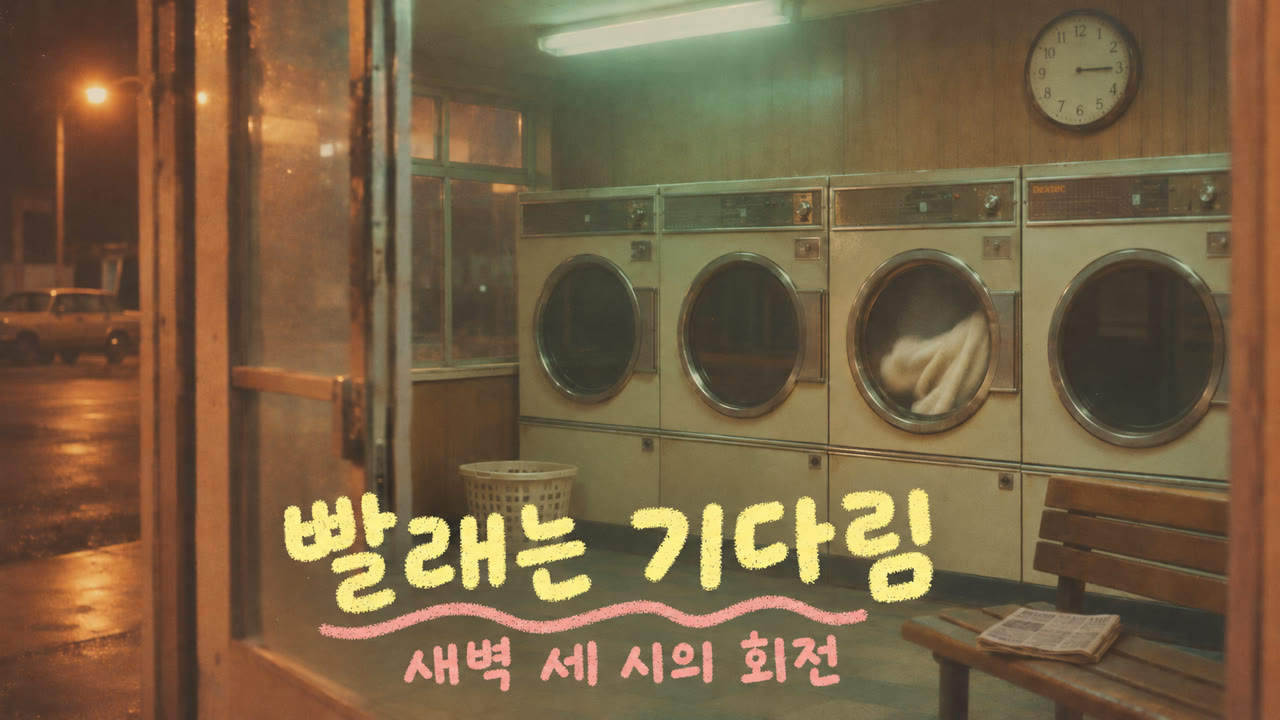
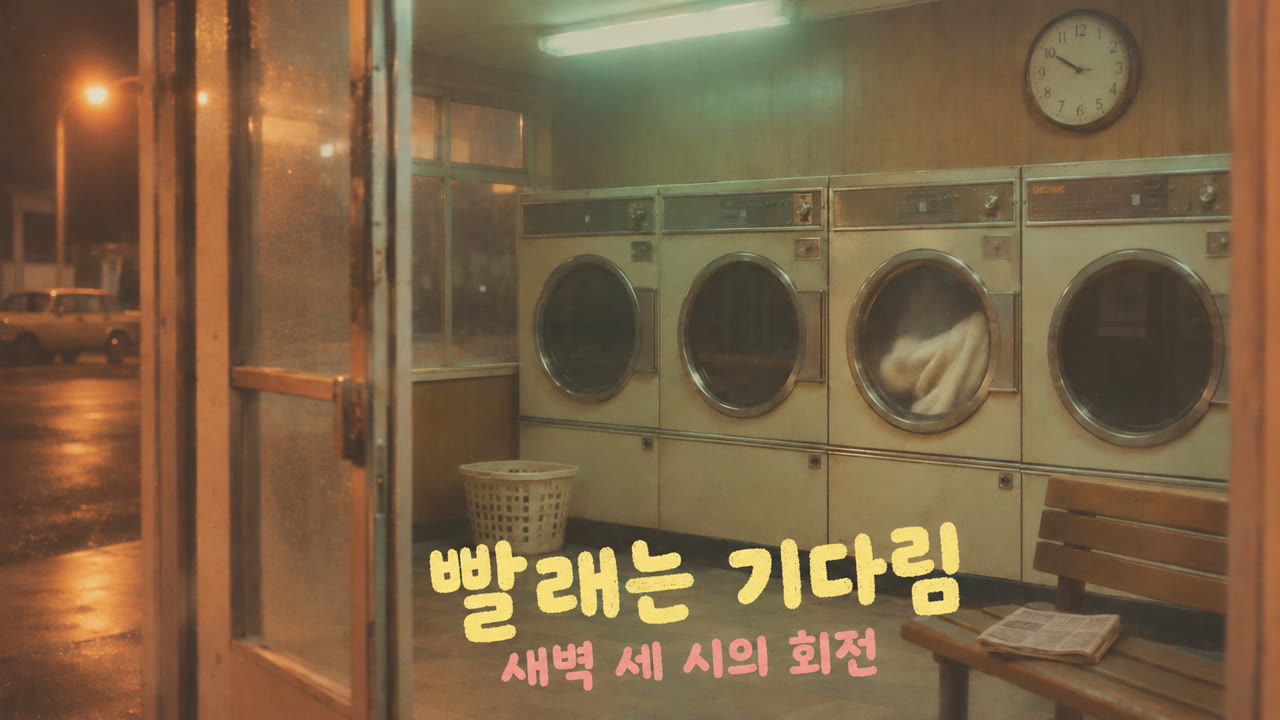
feat(akbun-draw): title-pastel 영문 제목 대문자, 밑줄은 underline 옵션으로

diff --git a/plugins/akbun-draw/skills/akbun-draw-title-pastel/scripts/title_prompt.py b/plugins/akbun-draw/skills/akbun-draw-title-pastel/scripts/title_prompt.py
@@ -18,7 +18,7 @@ REF = Path(__file__).resolve().parent.parent / "references"
 # 폰트·브랜드를 가리키는 말. 글씨체는 획 모양으로만 묘사한다.
 BANNED = (r"\b(fonts?|typefaces?|garamond|helvetica|arial|times new roman|baskerville|bodoni|futura|didot|comic sans|"
           r"nanum|pretendard|gaegu|logos?|trademarks?)\b|폰트|글꼴|서체|로고|™|®|©")
-ORDER = ("title", "texture", "subtitle", "accent", "finish", "placement", "keep")
+ORDER = ("title", "texture", "subtitle", "underline", "finish", "placement", "keep")
 
 
 def load(name):
@@ -61,6 +61,7 @@ def check(spec, base=Path(".")):
         ("palette", isinstance(spec.get("palette"), str) and spec["palette"] in pals, f"palettes.jsonl id: {sorted(pals)}"),
         ("title length", 1 <= len(title.strip()) <= 20, f"제목 {len(title.strip())}자, 1~20자(공백 포함, 앞뒤 공백 제외, 경계 포함)"),
         ("subtitle length", len(sub.strip()) <= 40, f"부제 {len(sub.strip())}자, 0~40자(공백 포함, 앞뒤 공백 제외, 경계 포함)"),
+        ("underline flag", isinstance(spec.get("underline", False), bool), "underline은 true/false, 없으면 false"),
         ("one line each", "\n" not in title + sub, "제목·부제는 각각 한 줄"),
         ("no quotes", '"' not in title + sub, "큰따옴표 금지(프롬프트의 인용 표시와 겹침)"),
         ("no font or brand", not re.search(BANNED, title + " " + sub, re.I), "폰트·브랜드·로고를 가리키는 말 금지"),
@@ -81,11 +82,16 @@ def score(rows):
 
 def build(spec):
     style, pal = load("style.jsonl"), load("palettes.jsonl")[spec["palette"]]
-    sub = spec.get("subtitle", "").strip()
-    color = (f"Title color: {pal['title']} {pal['title_hex']}. "
-             f"Accent color for the {'subtitle and ' if sub else ''}underline: {pal['accent']} {pal['accent_hex']}.")
-    rules = " ".join(style[k]["prompt"] for k in ORDER if k != "subtitle" or sub)
-    text = f'TITLE: "{spec["title"].strip()}"\n' + (f'SUBTITLE: "{sub}"' if sub else "No subtitle.")
+    sub, line = spec.get("subtitle", "").strip(), spec.get("underline", False)
+    color = f"Title color: {pal['title']} {pal['title_hex']}."
+    uses = " and ".join(n for n, on in (("subtitle", sub), ("underline", line)) if on)
+    if uses:
+        color += f" Accent color for the {uses}: {pal['accent']} {pal['accent_hex']}."
+    keys = [k for k in ORDER if k != "subtitle" or sub]
+    rules = " ".join(style[k if k != "underline" or line else "no_underline"]["prompt"] for k in keys)
+    # 영문 제목은 대문자로 넘긴다. 한글은 upper()에 영향받지 않는다.
+    title = unicodedata.normalize("NFC", spec["title"].strip()).upper()
+    text = f'TITLE: "{title}"\n' + (f'SUBTITLE: "{sub}"' if sub else "No subtitle.")
     return "\n\n".join([style["medium"]["prompt"], f"LETTERING: {rules} {color}", text])
 
 
@@ -118,14 +124,22 @@ def selftest():
         t = Path(tmp)
         Image.new("RGB", (64, 36), (235, 235, 230)).save(t / "light.png")
         Image.new("RGB", (64, 36), (30, 30, 40)).save(t / "dark.png")
+        fails = lambda s: {n for n, ok, _ in check(s, t) if not ok}  # noqa: E731
         good = {"image": "dark.png", "palette": "butter", "title": "빨래는 기다림", "subtitle": "새벽 세 시의 회전"}
         assert score(check(good, t)) == 100, check(good, t)
         out = build(good)
         assert '"빨래는 기다림"' in out and '"새벽 세 시의 회전"' in out and "#F7EF9E" in out and "#F0A8A4" in out
-        assert "monoline" in out and "subtitle and underline" in out
+        assert "monoline" in out and "Accent color for the subtitle:" in out
+        assert "No underline" in out and "wavy underline" not in out
+        lined = build(dict(good, underline=True))
+        assert "wavy underline" in lined and "No underline" not in lined and "subtitle and underline" in lined
+        assert "Accent color for the underline:" in build(dict(good, subtitle="", underline=True))
+        assert "Accent color" not in build(dict(good, subtitle=""))
+        assert '"TINY WISHES"' in build(dict(good, title="Tiny Wishes", subtitle="slow days")) and '"slow days"' in build(dict(good, title="Tiny Wishes", subtitle="slow days"))
+        assert '"API 응답 지연"' in build(dict(good, title="api 응답 지연"))
+        assert "underline flag" in fails(dict(good, underline="yes"))
         bare = build(dict(good, subtitle=""))
         assert "No subtitle." in bare and "half of the title" not in bare and "subtitle and" not in bare
-        fails = lambda s: {n for n, ok, _ in check(s, t) if not ok}  # noqa: E731
         assert "title contrast" in fails(dict(good, image="light.png"))
         assert not fails(dict(good, image="light.png", palette="cocoa"))
         assert "palette" in fails(dict(good, palette="neon"))

diff --git a/plugins/akbun-draw/skills/akbun-draw-title-pastel/SKILL.md b/plugins/akbun-draw/skills/akbun-draw-title-pastel/SKILL.md
@@ -1,6 +1,6 @@
 ---
 name: akbun-draw-title-pastel
-description: 이미 있는 그림·사진 위에 태블릿 브러시로 즉석에서 덧그린 듯한 제목·부제를 넣는 이미지 편집 스타일 pastel. 굵고 둥근 모노라인 획, 출렁이는 기준선, 마른 크레용·오일파스텔 질감, 제목색과 강조색 두 가지, 물결 밑줄 하나, 테두리·그림자·박스 없음. 폰트를 쓰지 않고 이미지 생성 모델이 글자를 그린다. 모델은 spec(JSON)만 쓰고, 스크립트가 references 라이브러리로 영어 편집 프롬프트를 조립하고 채점한다. 사용자가 직접 호출할 때만 실행한다.
+description: 이미 있는 그림·사진 위에 태블릿 브러시로 즉석에서 덧그린 듯한 제목·부제를 넣는 이미지 편집 스타일 pastel. 굵고 둥근 모노라인 획, 출렁이는 기준선, 마른 크레용·오일파스텔 질감, 영문 제목은 대문자, 제목색과 강조색 두 가지, 강조가 필요할 때만 물결 밑줄, 테두리·그림자·박스 없음. 폰트를 쓰지 않고 이미지 생성 모델이 글자를 그린다. 모델은 spec(JSON)만 쓰고, 스크립트가 references 라이브러리로 영어 편집 프롬프트를 조립하고 채점한다. 사용자가 직접 호출할 때만 실행한다.
 disable-model-invocation: true
 ---
 
@@ -34,8 +34,9 @@ disable-model-invocation: true
 |---|---|
 | `image` | 원본 그림 경로, spec 파일이 있는 폴더 기준 |
 | `palette` | palettes.jsonl의 `id` |
-| `title` | 제목 한 줄, 1~20자(NFC 정규화한 유니코드 코드 포인트 수, 공백 포함, 앞뒤 공백 제외, 경계 포함) |
-| `subtitle` | 부제 한 줄, 0~40자(같은 방식), 없으면 `""` |
+| `title` | 제목 한 줄. 영문은 스크립트가 대문자로 바꿔 프롬프트에 넣는다(spec에는 입력 그대로). 1~20자(NFC 정규화한 유니코드 코드 포인트 수, 공백 포함, 앞뒤 공백 제외, 경계 포함) |
+| `subtitle` | 부제 한 줄, 0~40자(같은 방식), 없으면 `""`. 대소문자는 입력 그대로 |
+| `underline` | `true`면 제목 아래 강조색 물결 밑줄 하나, `false`면 밑줄 없음. 기본 `false`. 사용자가 밑줄을 요청했거나, 제목이 경고·핵심 수치·결론처럼 한눈에 강조해야 하는 말일 때만 `true`로 한다 |
 
 ### 3. 프롬프트 조립
 
@@ -47,7 +48,7 @@ spec을 채점하고 프롬프트 파일을 쓰는 명령이다.
 uv run --python 3.12 --with pillow python -I <skill>/scripts/title_prompt.py build title-output/<작업명>/01_<id>.json -o title-output/<작업명>/01_<id>.txt
 ```
 
-채점표만 보려면 `build` 대신 `check`를 쓴다. 채점은 위 표의 수치 외에 줄바꿈·큰따옴표가 없는지, 폰트·브랜드를 가리키는 말(font·typeface·폰트·글꼴·서체, 폰트 이름 일부, logo·로고, ™·®·©)이 없는지, 제목색과 그림 평균색의 명도 대비(WCAG 상대 휘도)가 3:1 이상인지 본다. 평균색은 그림 전체를 한 화소로 줄인 값이라 대략값이다.
+채점표만 보려면 `build` 대신 `check`를 쓴다. 채점은 위 표의 수치 외에 `underline`이 true/false인지, 줄바꿈·큰따옴표가 없는지, 폰트·브랜드를 가리키는 말(font·typeface·폰트·글꼴·서체, 폰트 이름 일부, logo·로고, ™·®·©)이 없는지, 제목색과 그림 평균색의 명도 대비(WCAG 상대 휘도)가 3:1 이상인지 본다. 평균색은 그림 전체를 한 화소로 줄인 값이라 대략값이다.
 
 스크립트나 jsonl을 고쳤으면 예시 txt를 `build`로 다시 쓰고 자체 검사가 `selftest ok`를 내는지 본다.
 
@@ -67,7 +68,7 @@ cd title-output/<작업명> && codex exec --skip-git-repo-check -s workspace-wri
 
 결과를 한 장으로 붙여 한 번만 보고 아래를 확인한다. 어긋난 장은 같은 프롬프트로 다시 생성하되 장마다 처음 생성을 포함해 최대 3번까지 하고, 그래도 어긋나면 그 항목을 결과 보고에 적는다.
 
-- 제목·부제가 spec과 한 글자도 다르지 않고, 밑줄 말고 다른 글자·낙서·아이콘이 없다.
+- 제목·부제가 프롬프트의 인용과 한 글자도 다르지 않고(영문 제목은 대문자), 다른 글자·낙서·아이콘이 없다. 밑줄은 `underline`이 `true`일 때만 하나 있다.
 - 글자가 주 소재를 가리지 않는다.
 - 제목이 세리프 없는 굵고 둥근 모노라인이고, 기준선이 출렁이는 손글씨다. 한글이면 붓글씨·명조 같은 획 대비가 없다. 부제가 제목의 절반쯤이다.
 - 칠에 마른 크레용 같은 알갱이가 보이고, 테두리·그림자·박스가 없다.
